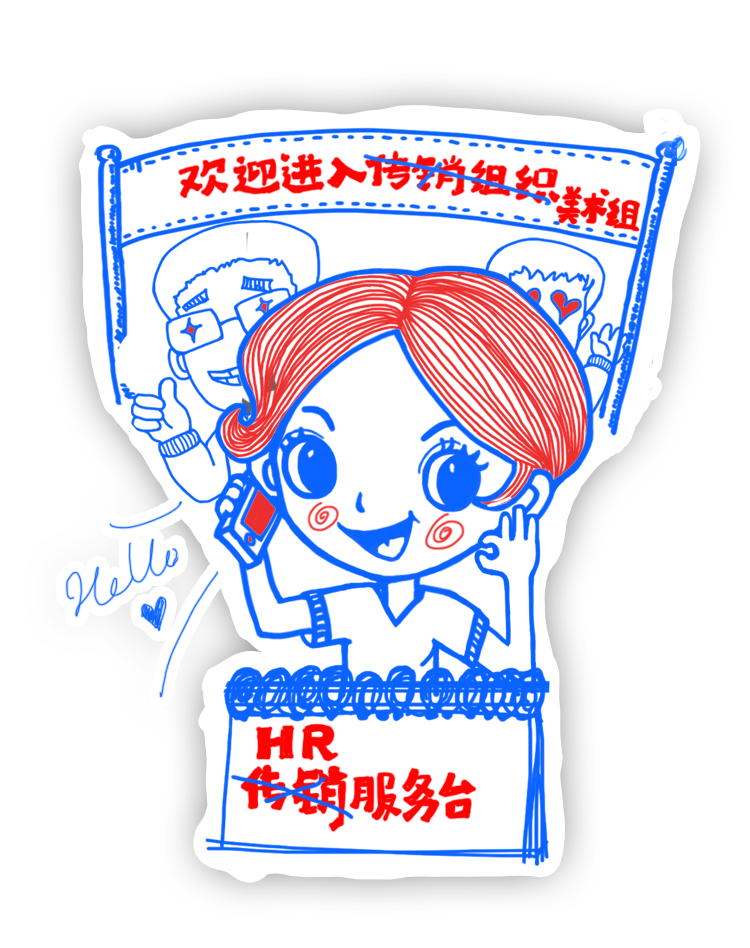
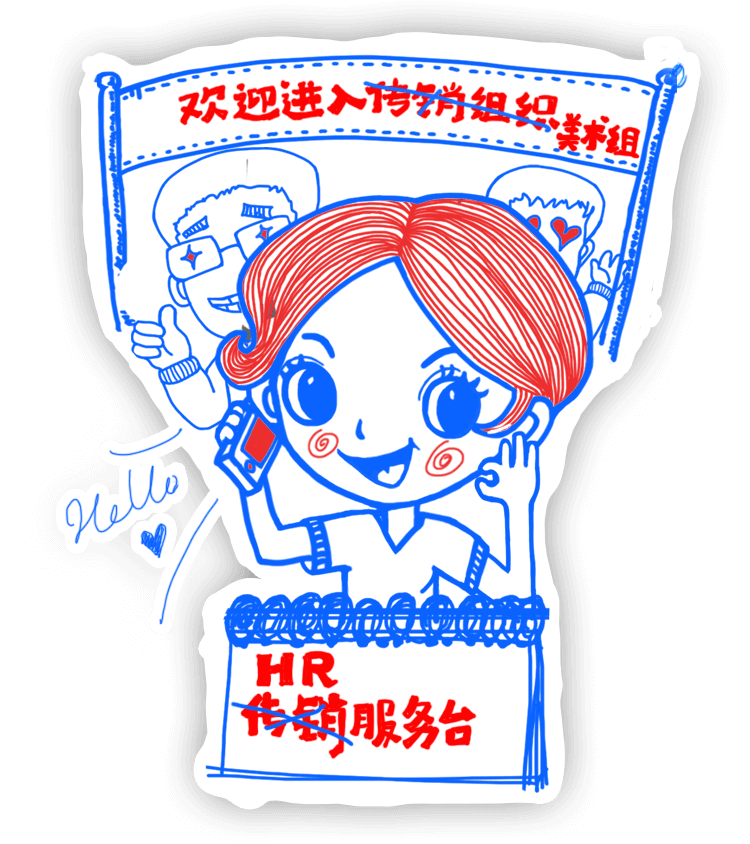
update

diff --git a/src/components/First.vue b/src/components/First.vue
@@ -65,7 +65,7 @@ export default {
 
 .page1 .btn img{
   width:209px;
-  margin: 540px auto 0 auto;
+  margin: 480px auto 0 auto;
   animation: easeIn 2s ease-in;
   height: auto;
   display: block;
@@ -74,7 +74,7 @@ export default {
 
 .page1 .text img{
   width:293px;
-  margin: 470px auto 0 auto;
+  margin: 420px auto 0 auto;
   animation: easeIn 2s ease-in;
   height: auto;
   display: block;

diff --git a/src/components/Second.vue b/src/components/Second.vue
@@ -206,7 +206,7 @@ svg{
 
 .page2 .main {
   height:463px;
-  margin-top: 160px;
+  margin-top: 120px;
   animation: easeIn 2s ease-in;
 }
 
